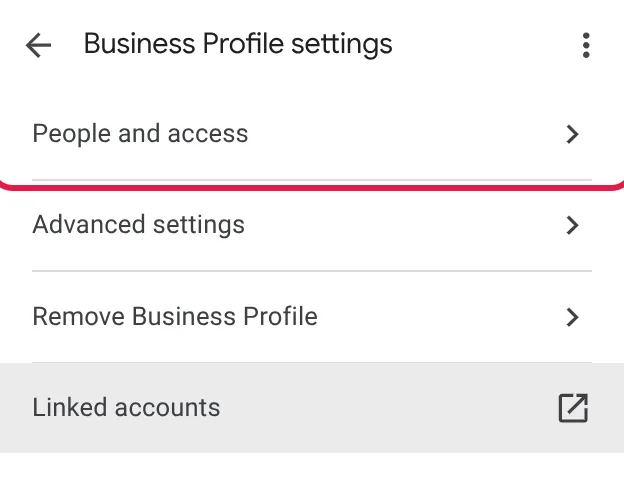
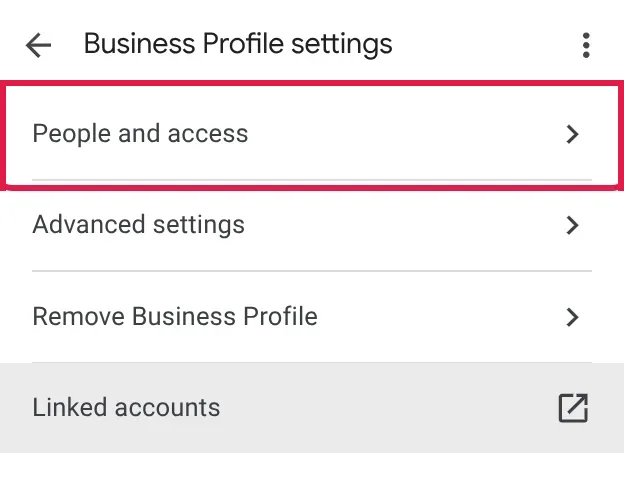
guides: close the GBP phone frames clipped at the screen edge
Full-width rows' outlines fell outside the viewport, leaving two
horizontal lines. Drew the sides on the 16 shots; mark.js now draws
the outline inside such rows.

Claude-Session: https://claude.ai/code/session_01PcHD8iZ69G513WCyzXzwZ3

Changed region(s): [[0.0, 0.1521, 1.0, 0.3955]]

diff --git a/tools/guide-shots/mark.js b/tools/guide-shots/mark.js
@@ -9,7 +9,8 @@ window.__mark = (t, n = 0) => {
       : (e.getAttribute('aria-label') || '') === s || (e.placeholder || '') === s || e.innerText?.trim() === s));
   const e = all[n]; if (!e) return 'none';
   e.dataset.mk = e.getAttribute('style') || '';
-  e.style.outline = '4px solid #e11d48'; e.style.outlineOffset = '4px'; e.style.borderRadius = '8px';
+  e.style.outline = '4px solid #e11d48'; // full-width rows: draw inside, or the screen edge clips the sides
+  e.style.outlineOffset = e.getBoundingClientRect().width > innerWidth - 16 ? '-4px' : '4px'; e.style.borderRadius = '8px';
   e.scrollIntoView({ block: 'center' }); return all.length;
 };
 window.__unmark = () => document.querySelectorAll('[data-mk]').forEach(e => { e.setAttribute('style', e.dataset.mk); delete e.dataset.mk; });
